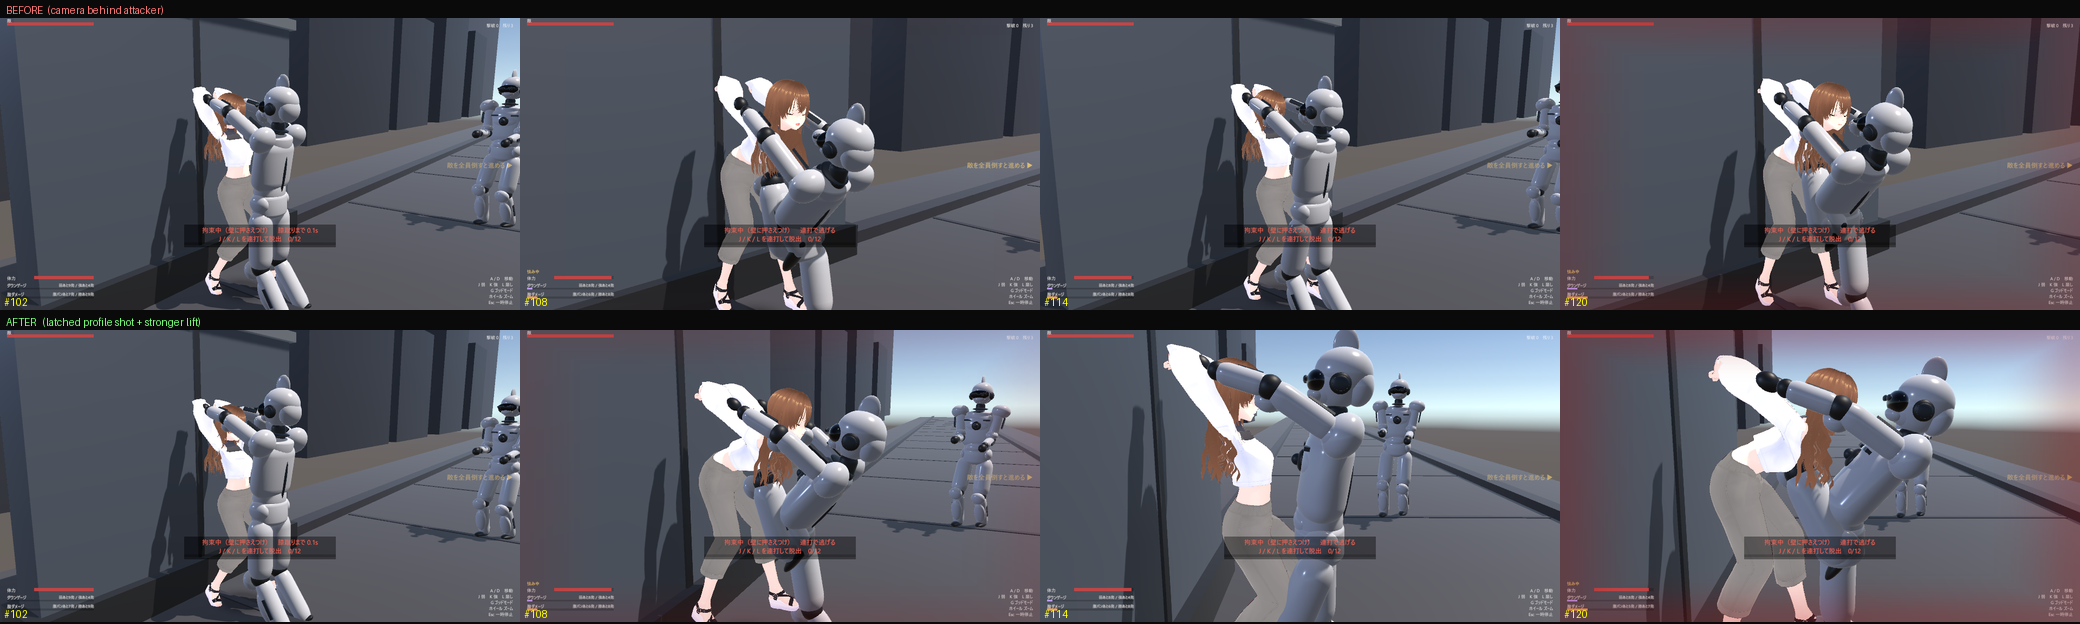
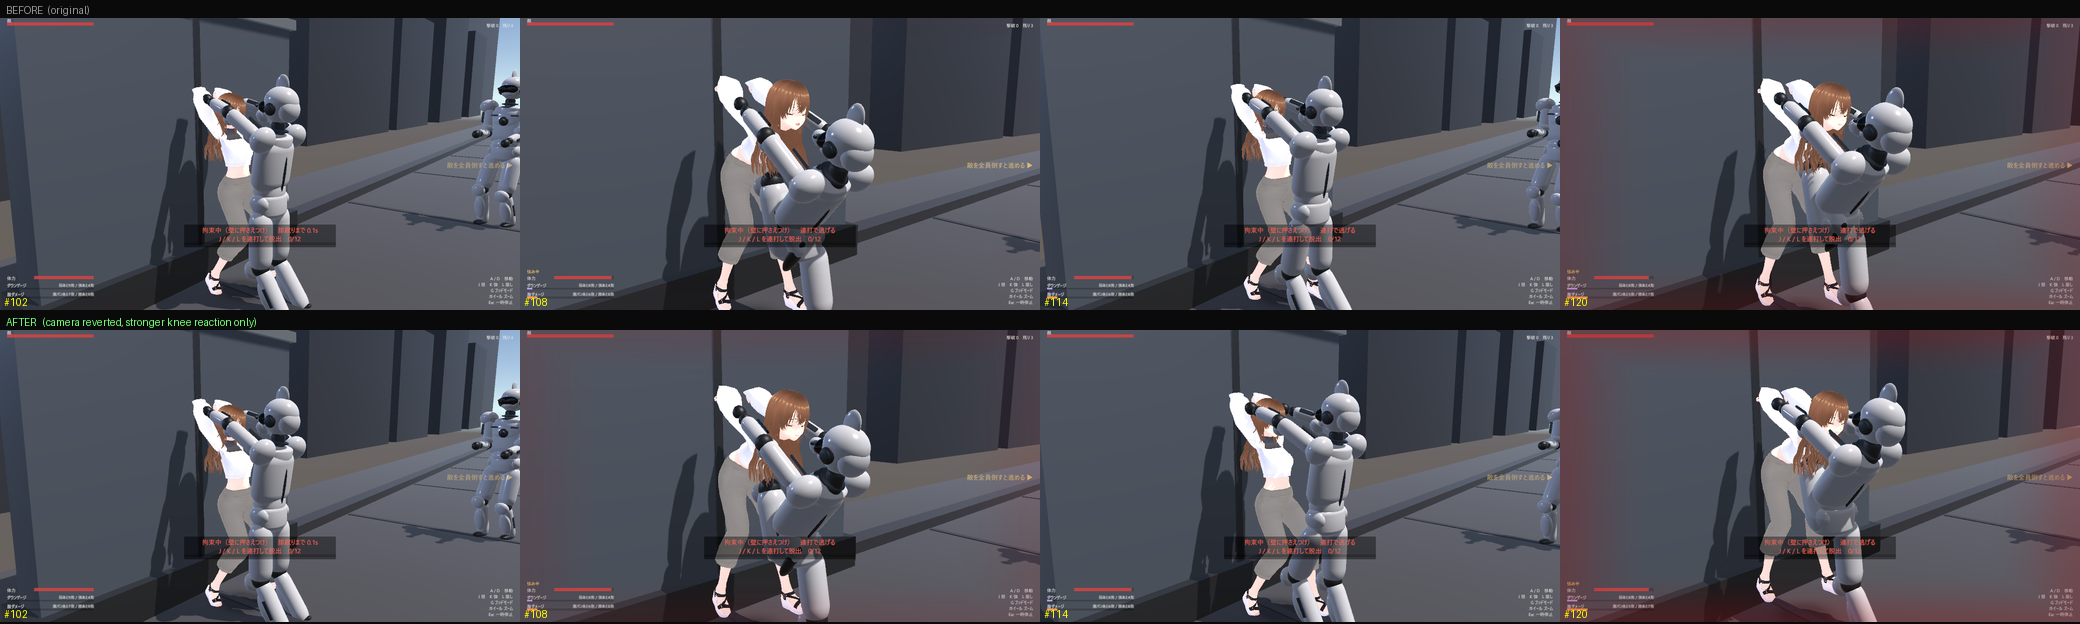
revert: 膝蹴りのカメラを元に戻し、当たった反応の強化だけ残す
横から見るプロフィールショットは膝の接触が読めるが、壁に押さえつけられた画が崩れ、
彼の背後からの圧迫感が失われた（「前のほうが良かった」）。この場面で見せたいのは
「壁に押さえつけられたまま膝が入る」ことなので、カメラは既定へ戻す。

- PinHoldPose: 42d6bfe のカメラ変更を取り消し（_kneeShot も削除）
- 残すのは PoseGrabbed の反応のみ（腰 0.14->0.19、足 0.085->0.115、折れ 49->53 度）

WallPinRuntimeTests + PinGrappleTests 42 件通過。

diff --git a/MioPrototype/Assets/RyonaGame/Runtime/AI/PinHoldPose.cs b/MioPrototype/Assets/RyonaGame/Runtime/AI/PinHoldPose.cs
@@ -19,13 +19,6 @@ namespace Ryona.Game
         ThirdPersonCamera _camera;
         float _splitPush;
 
-        /// <summary>
-        /// 膝の連続中に横（プロフィール）ショットへ寄せ切った度合い（0..1）。
-        /// パルスごとに戻すとカメラが往復して落ち着かないので、膝が続く間は保つ。
-        /// </summary>
-        float _kneeShot;
-        float _kneeShotIdle;
-
         /// <summary>もがかれて肩が浮いた分（m）。手の狙いを上げる。</summary>
         float _lift;
         float _rearFraming;
@@ -197,43 +190,10 @@ namespace Ryona.Game
                     Vector3 her = pinned.position + Vector3.up * 1.02f;
                     Vector3 him = transform.position + Vector3.up * 1.02f;
                     Vector3 mid = Vector3.Lerp(her, him, 0.45f);
-
-                    // 膝が 0.65 秒間隔で続く間は横ショットを保つ。
-                    // パルスに合わせて毎回戻すと、カメラが彼の背後と真横を往復して落ち着かない（実測）。
-                    if (hold.KneePulse > 0.05f)
-                    {
-                        _kneeShot = Mathf.MoveTowards(_kneeShot, 1f, Time.unscaledDeltaTime / 0.22f);
-                        _kneeShotIdle = 0f;
-                    }
-                    else
-                    {
-                        _kneeShotIdle += Time.unscaledDeltaTime;
-                        if (_kneeShotIdle > 1.2f)
-                            _kneeShot = Mathf.MoveTowards(_kneeShot, 0f, Time.unscaledDeltaTime / 0.45f);
-                    }
-
-                    // 既定は彼の背後から。膝が入る瞬間だけ、二人を横から見るプロフィールへ回り込む。
-                    // 真後ろのままだと彼の体が膝を隠し、白い塊が腹の前に出るだけに見えていた（実測）。
-                    Vector3 baseOffset = new Vector3(-2.25f, 0.47f, -1.75f);
-                    Vector3 axis = Vector3.ProjectOnPlane(him - her, Vector3.up);
-                    if (axis.sqrMagnitude < 1e-4f)
-                        axis = Vector3.ProjectOnPlane(transform.forward, Vector3.up);
-                    axis.Normalize();
-                    Vector3 side = Vector3.Cross(Vector3.up, axis);
-                    if (side.sqrMagnitude < 1e-4f)
-                        side = Vector3.right;
-                    side.Normalize();
-
-                    // いまカメラがいる側を保つ。蹴る脚は「カメラ側」で選ばれるので、
-                    // 側を跨ぐと脚が入れ替わって震える。
-                    Vector3 camFlat = Vector3.ProjectOnPlane(_camera.transform.position - mid, Vector3.up);
-                    if (camFlat.sqrMagnitude < 1e-4f)
-                        camFlat = baseOffset;
-                    if (Vector3.Dot(side, camFlat) < 0f)
-                        side = -side;
-
-                    Vector3 profile = side * 1.75f + Vector3.up * 0.30f;
-                    Vector3 offset = Vector3.Lerp(baseOffset, profile, _kneeShot);
+                    float knee = Mathf.SmoothStep(0f, 1f, hold.KneePulse);
+                    Vector3 offset = Vector3.Lerp(
+                        new Vector3(-2.25f, 0.47f, -1.75f),
+                        new Vector3(-1.35f, 0.32f, -1.65f), knee);
                     _camera.RequestCinematicShot(mid + offset, mid);
                     return;
                 }

diff --git a/Motion-Notes.md b/Motion-Notes.md
@@ -688,13 +688,17 @@
   - 膝の下りている間（`#102`/`#114`）は彼女の下半身が完全に隠れ、情報が無かった。
   - オフセットは `(-2.25,0.47,-1.75)` → `(-1.35,0.32,-1.65)` の**ワールド固定方向**で、
     彼がどこに立っていても同じ側から撮っていた。
-- **修正（案C）**:
-  - **カメラ**: 膝の瞬間だけ、二人を横から見るプロフィールへ回り込む（`PinHoldPose`）。
-    真横の向きは「彼女→彼」の軸の垂線から作り、**いまカメラがいる側を保つ**
-    （蹴る脚は「カメラ側の脚」で選ばれるので、側を跨ぐと脚が入れ替わって震える）。
-    `_kneeShot` で**膝が続く間は横ショットを保つ**（パルスごとに戻すとカメラが往復して落ち着かない）。
-  - **反応**: 腰の持ち上がり 0.14 → 0.19、feet 0.085 → 0.115、折れ 49° → 53°。
-    膝が隠れる回でも「入った」ことが読めるように。
+- **修正（案C → カメラは取りやめ）**:
+  - **反応（採用）**: 腰の持ち上がり 0.14 → 0.19、feet 0.085 → 0.115、折れ 49° → 53°。
+    膝が彼の体で隠れる回でも「入った」ことが読める。
+  - **カメラ（実装したが戻した）**: 膝の瞬間だけ二人を横から見るプロフィールへ回り込む案は
+    実装して撮影までしたが、**「前のほうが良かった」**との判断で取りやめ。
+    壁に押さえつけられている画が崩れ、彼の背後からの圧迫感が失われるため。
+    プロフィールにすると膝は確かに見えるが、**この場面で見せたいのは「壁に押さえつけられたまま膝が入る」こと**で、
+    横からだと壁と拘束の文脈が画から落ちる。
+  - なお実装時の注意として、蹴る脚は「カメラ側の脚」で選ばれるので、カメラを反対側へ回すと
+    脚が入れ替わって震える。膝ごとにカメラを戻すと背後↔真横を往復して落ち着かない。
+    再挑戦する場合はこの 2 点の対策（側を保つ・膝の連続中はショットを保つ）が要る。
 - **検証**: `WallPinRuntimeTests` + `PinGrappleTests` 42 件通過。膝の深さ（`AlignPinKnee`）は
   毎フレーム合わせ直すので、彼女が動いても当たりは保たれる。
   確認映像: [knee-pin-after.gif](docs/verification/knee-pin-after.gif) /
